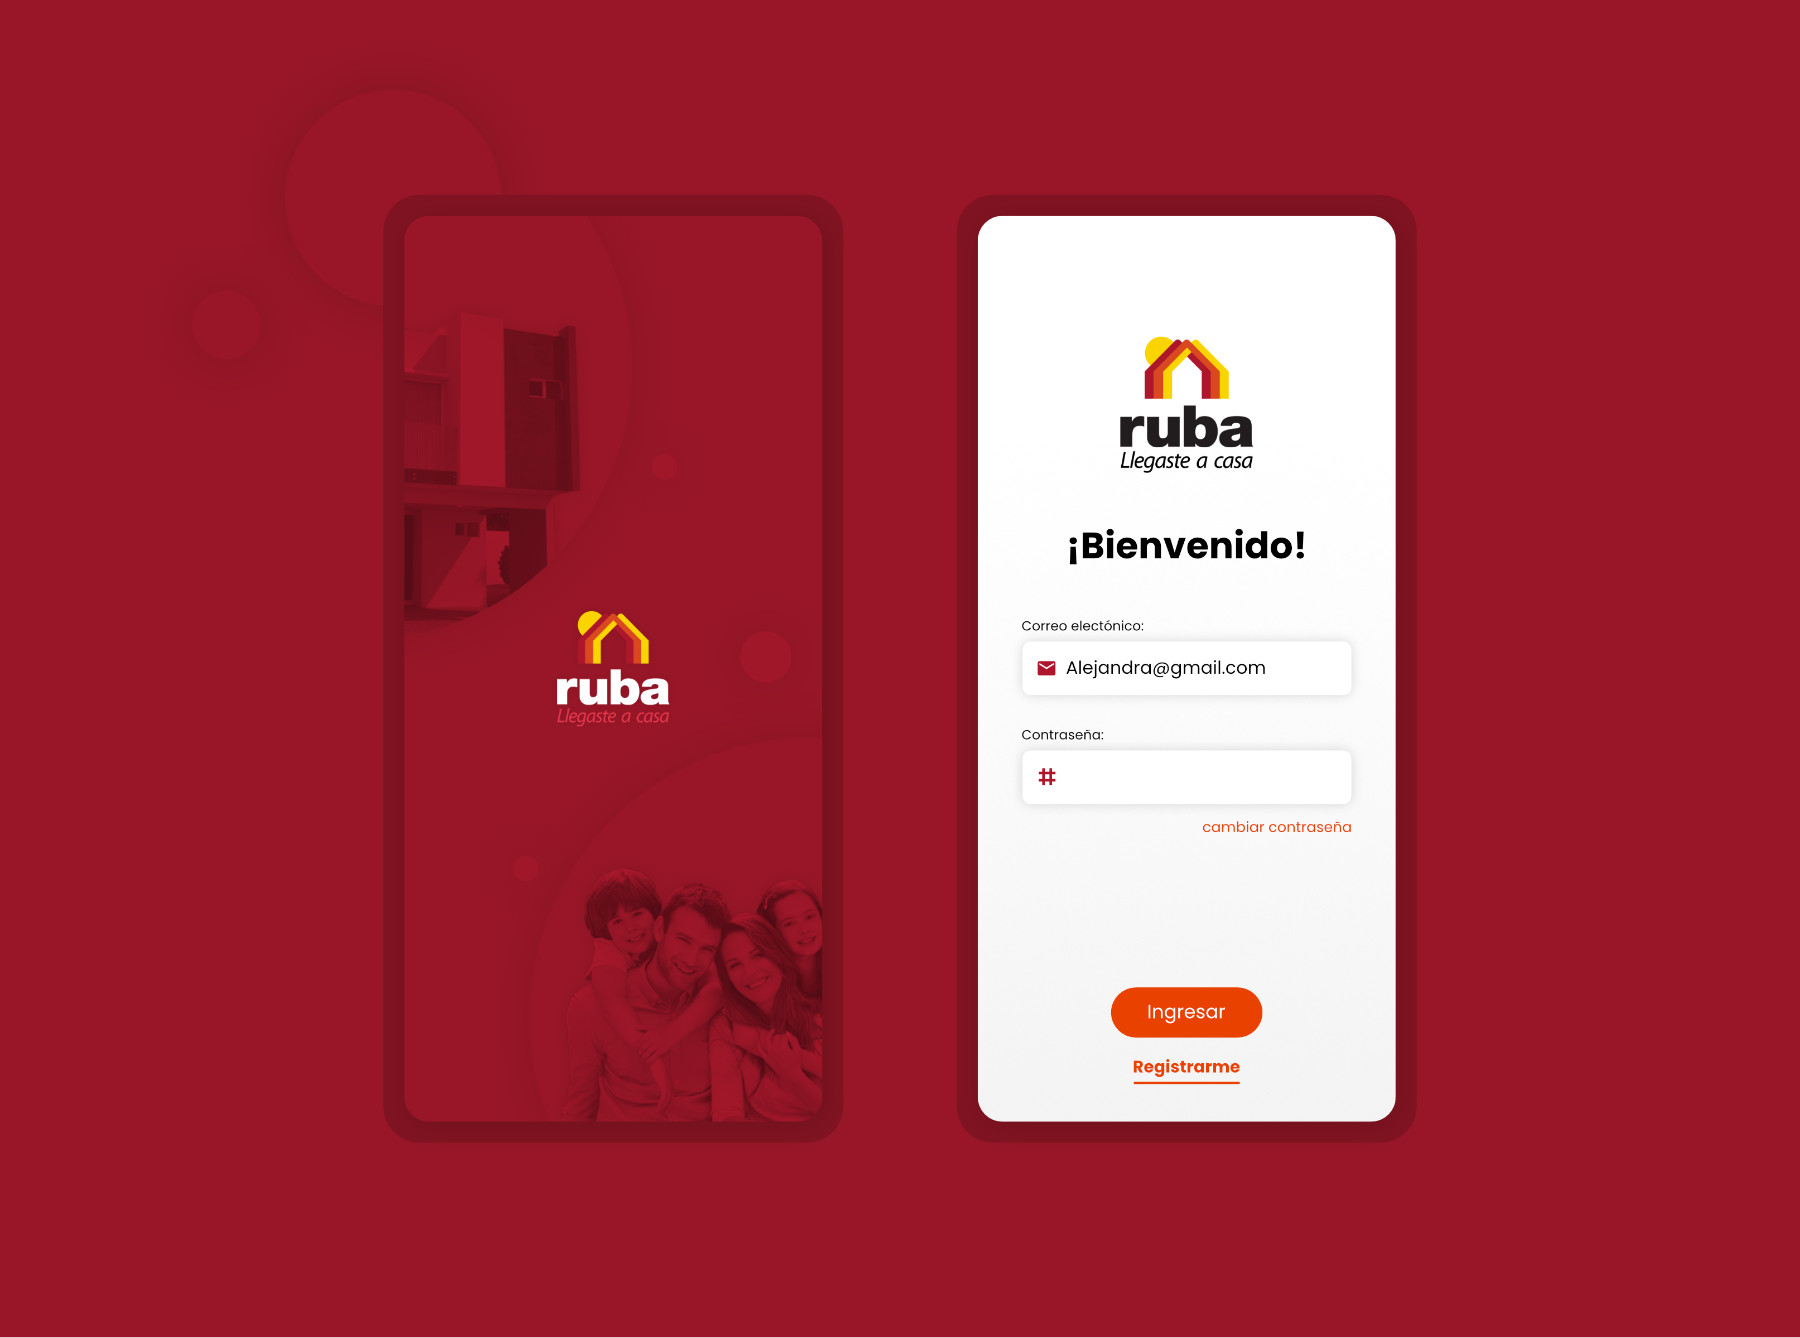
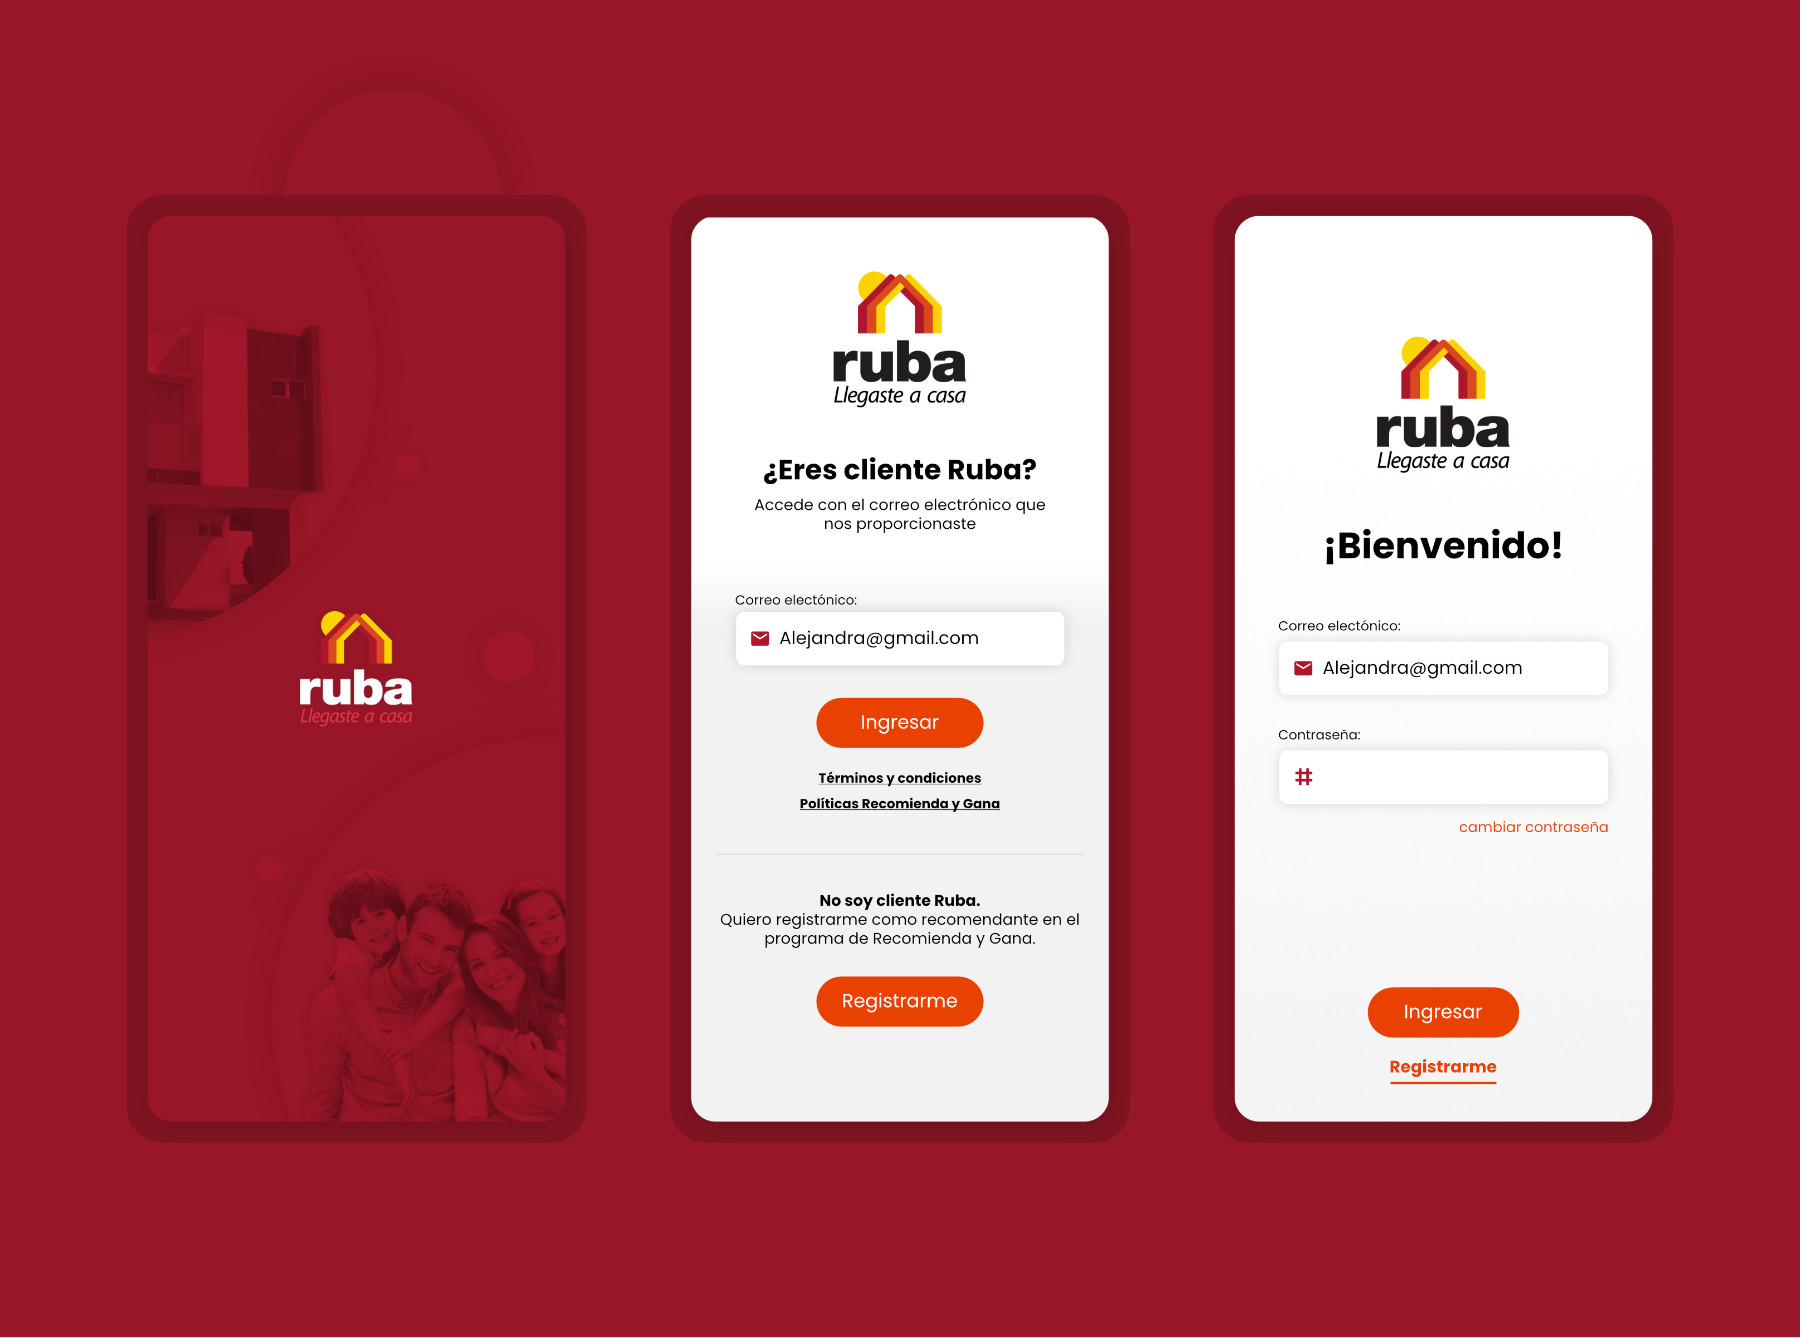
updates ruba

diff --git a/project-ruba.html b/project-ruba.html
@@ -187,20 +187,23 @@
           <p class="p-hello">Design process</p>
         </div>
         <div>
-          <p class="p-intro">I started this process by viewing Ruba’s website and getting a feel for their visual design. I wanted to make something that would fit right in with their other products. On my first meeting with the development team, we discussed the different types of users. An important thing to note is that the all users would be the company’s clients.</p>
+          <p class="p-intro">I started this process by viewing Ruba’s website and getting a feel for their visual design. I wanted to make something that would fit right in with their other products. On my first meeting with the development team, we discussed the different types of users. An important thing to note is that all users would need to be registered to use the app.</p>
 
-          <p class="p-intro" style="font-weight: 700;">There would be two types of registered users:</p>
+          <p class="p-intro" style="font-weight: 700;">There would be three types of users:</p>
 
           <ul class="list">
             <li>
-              Registered clients who are homeowners.
+              Registered clients who are homeowners; this would be done automatically after providing an email to Ruba when completing the purchasing process of a home.
+            </li>
+            <li>
+              Registered clients who are not homeowners, but registered for the rewards program; these are people who don't have an association with Ruba, but want to recommend their peers to the company for the purchase of a home. 
             </li>
             <li>
               Registered clients who are homeowners and that registered for the rewards program.
             </li>
           </ul>
 
-          <p class="p-intro">Many user flows were prototyped for this process. With feedback from other people on our team, we concluded on the refined mockups.</p>
+          <p class="p-intro">Many user flows were prototyped for this process. With feedback from other people on our team, we concluded on the refined mockups that includes a backend development for Ruba to register their own clients.</p>
 
           <p class="p-intro" style="font-weight: 700;">The following mockups show various screens from the four main sections of the app: </p>
 
@@ -221,22 +224,81 @@
         </div>
       </div>
 
+      <div class="container-text2">
+        <div>
+          <p class="p-hello">House catalog</p>
+        </div>
+      </div>
+
+
+
       <div class="grid-project-imgs">
         <div class="grid-span-2">
           <img class="grid-img" src="img/projects/ruba/ruba-03.jpg" alt="ruba-03">
         </div>
+      </div>
 
+      <div class="container-text2">
+        <div>
+          <p class="p-hello">Creating community</p>
+        </div>
+      </div>
+
+      <div class="grid-project-imgs">
         <div class="grid-span-2">
           <img class="grid-img" src="img/projects/ruba/ruba-04.jpg" alt="ruba-04">
         </div>
+      </div>
 
+      <div class="container-text2">
+        <div>
+          <p class="p-hello">Registering for rewards program</p>
+        </div>
+      </div>
+
+      <div class="grid-project-imgs">
         <div class="grid-span-2">
           <img class="grid-img" src="img/projects/ruba/ruba-06.jpg" alt="ruba-06">
         </div>
+      </div>
 
+      <div class="container-text2">
+        <div>
+          <p class="p-hello">Recommending people</p>
+        </div>
+      </div>
+
+      <div class="grid-project-imgs">
+        <div class="grid-span-2">
+          <img class="grid-img" src="img/projects/ruba/ruba-10.jpg" alt="ruba-10">
+        </div>
+
+        <div class="grid-span-2">
+          <img class="grid-img" src="img/projects/ruba/ruba-09.jpg" alt="ruba-09">
+        </div>
+      </div>
+
+      <div class="container-text2">
+        <div>
+          <p class="p-hello">Claims system</p>
+        </div>
+      </div>
+
+      <div class="grid-project-imgs">
         <div class="grid-span-2">
           <img class="grid-img" src="img/projects/ruba/ruba-07.jpg" alt="ruba-07">
         </div>
+
+      </div>
+
+      <div class="container-text2">
+        <div>
+          <p class="p-hello">Profile</p>
+        </div>
+      </div>
+
+      <div class="grid-project-imgs">
+
 
         <div class="grid-span-2">
           <img class="grid-img" src="img/projects/ruba/ruba-08.jpg" alt="ruba-08">

diff --git a/index.html b/index.html
@@ -344,7 +344,7 @@
            <ul class="list-skills">
             <li>UI design</li>
             <li class="list-margin-top">Web design</li>
-            <li class="accent-skill">HTML/CSS learner</li>
+            <li class="accent-skill">HTML/CSS beginner</li>
            </ul>
           </div>
         </div>
